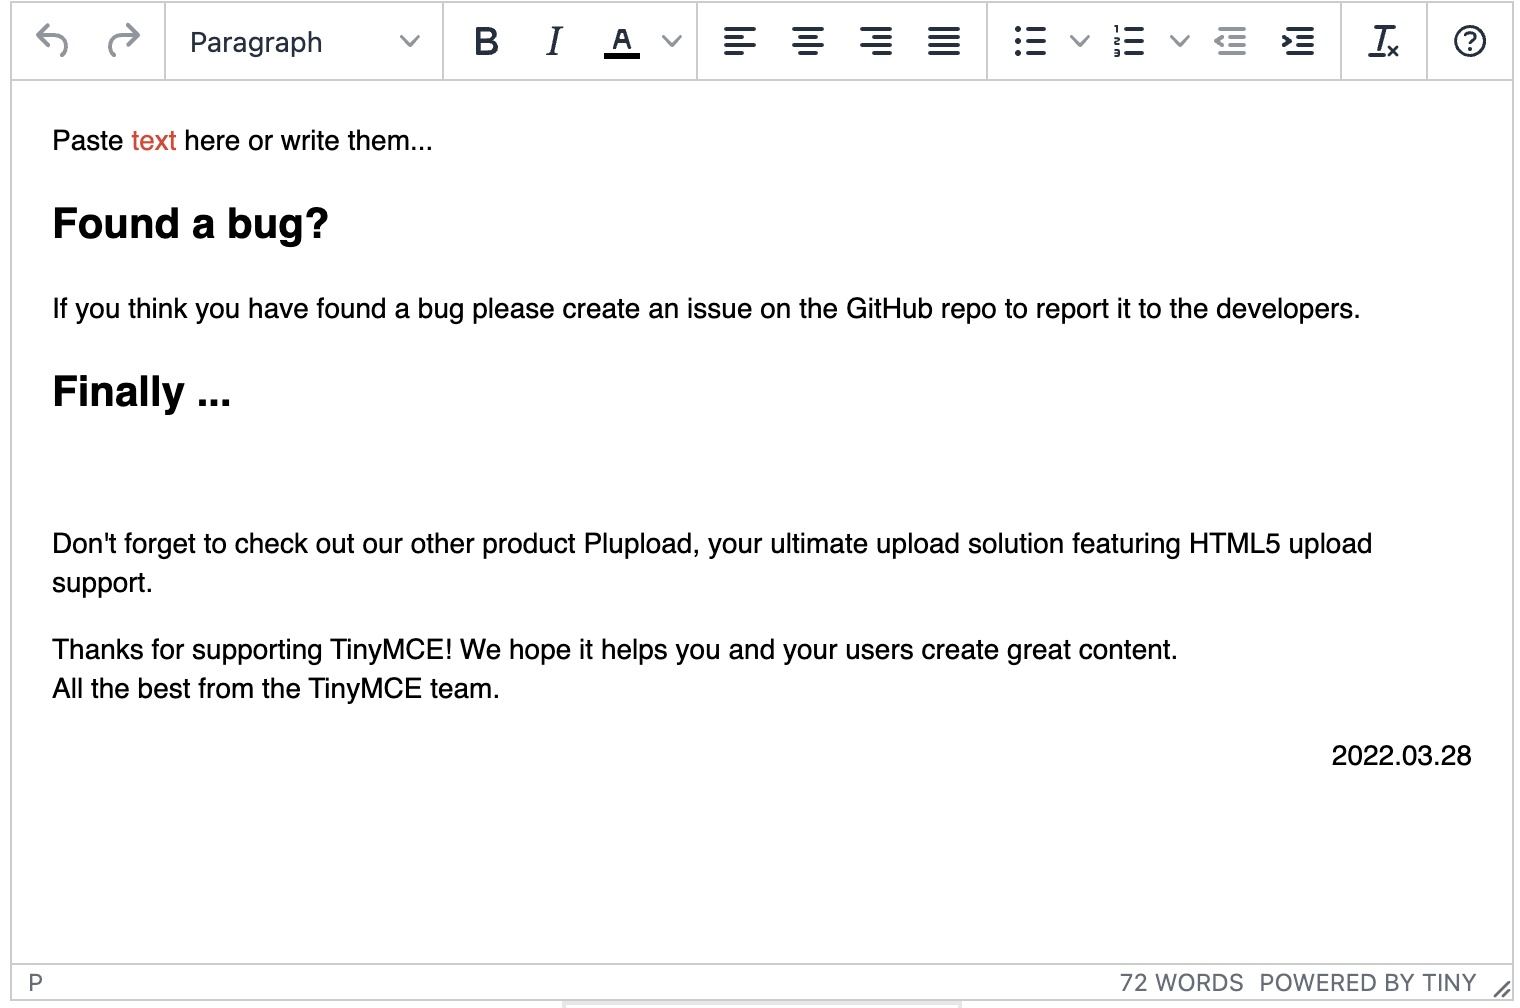
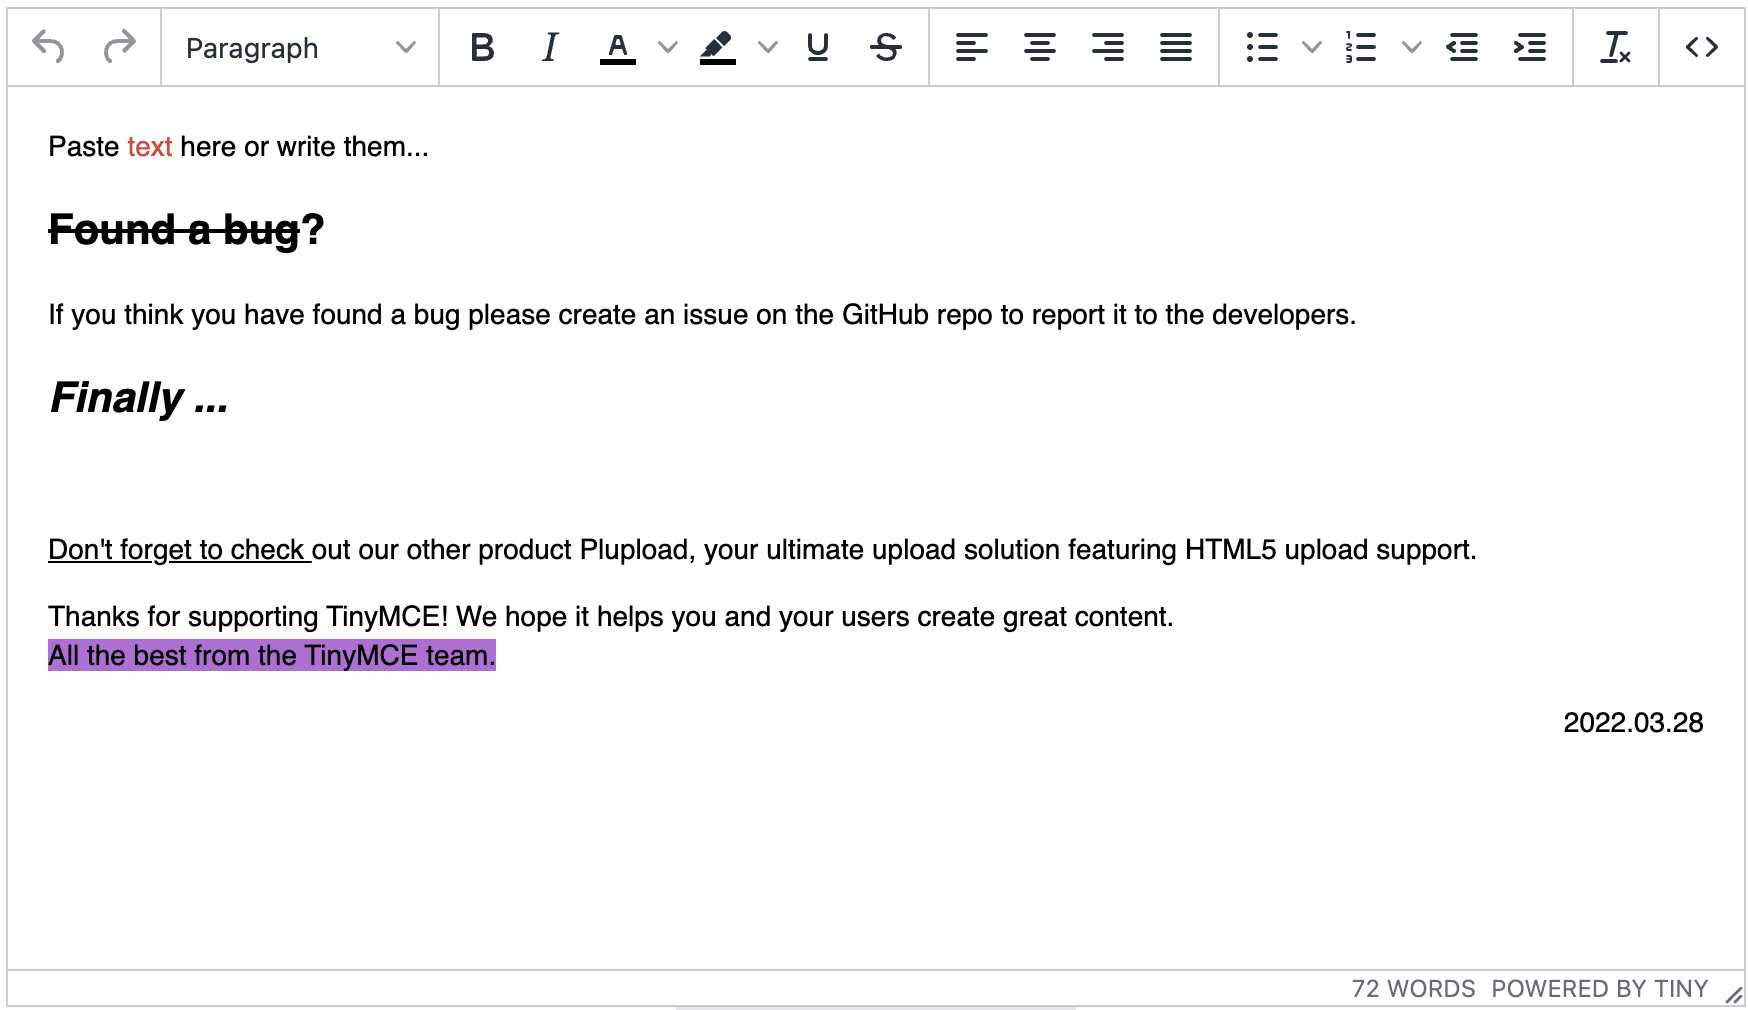
feat(next-app): update demo

diff --git a/apps/next-app/src/pages/index.tsx b/apps/next-app/src/pages/index.tsx
@@ -5,8 +5,14 @@ import { useRef } from 'react'
 
 const Home = () => {
   const demoHtml = `
-<p>Paste <span style="color: rgb(224, 62, 45);" data-mce-style="color: #e03e2d;">text</span> here or write them...</p><h2>Found a bug?</h2><p>If you think you have found a bug please create an issue on the GitHub repo to report it to the developers.</p><h2>Finally ...</h2><p><br data-mce-bogus="1"></p><p>Don't forget to check out our other product Plupload, your ultimate upload solution featuring HTML5 upload support.</p><p>Thanks for supporting TinyMCE! We hope it helps you and your users create great content.<br>All the best from the TinyMCE team.</p><p style="text-align: right;" data-mce-style="text-align: right;">2022.03.28</p>
-  `
+  <p>Paste <span style="color: #e03e2d;">text</span> here or write them...</p>
+  <h2><span style="text-decoration: line-through;">Found a bug</span>?</h2>
+  <p>If you think you have found a bug please create an issue on the GitHub repo to report it to the developers.</p>
+  <h2><em>Finally ...</em></h2>
+  <p>&nbsp;</p>
+  <p><span style="text-decoration: underline;">Don't forget to check </span>out our other product Plupload, your ultimate upload solution featuring HTML5 upload support.</p>
+  <p>Thanks for supporting TinyMCE! We hope it helps you and your users create great content.<br /><span style="background-color: #b96ad9;">All the best from the TinyMCE team.</span></p>
+  <p style="text-align: right;">2022.03.28</p>`
 
   const editorRef = useRef<Editor['editor'] | null>(null)
   const handleDownload = () => {
@@ -39,9 +45,9 @@ const Home = () => {
             ],
             toolbar:
               'undo redo | formatselect | ' +
-              'bold italic forecolor | alignleft aligncenter ' +
+              'bold italic forecolor backcolor underline strikethrough | alignleft aligncenter ' +
               'alignright alignjustify | bullist numlist outdent indent | ' +
-              'removeformat | help',
+              'removeformat | code',
             content_style:
               'body { font-family:Helvetica,Arial,sans-serif; font-size:14px }',
           }}
